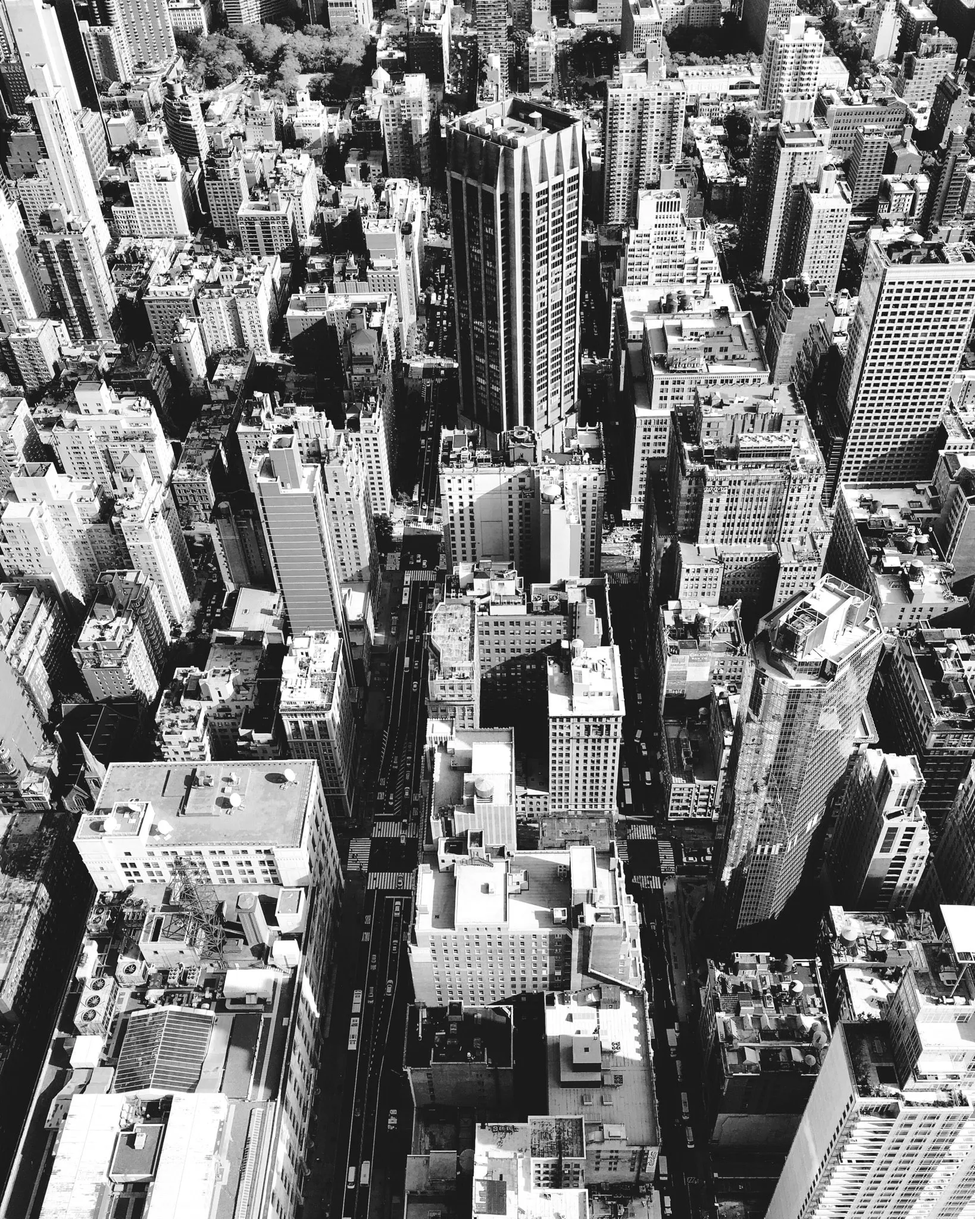
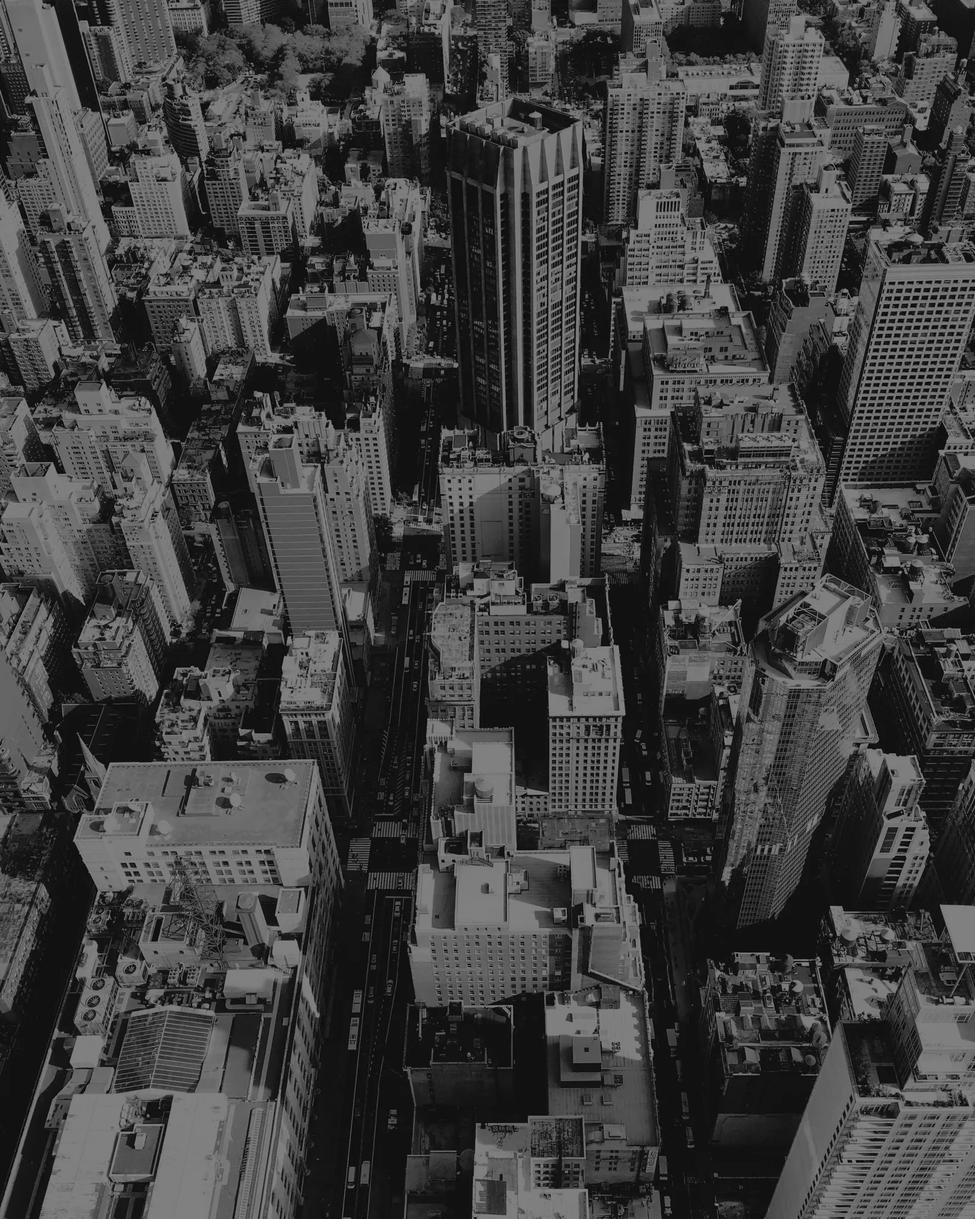
Fix paralllax and convert image to webp

diff --git a/pages/tribe/_tribe_id/index.vue b/pages/tribe/_tribe_id/index.vue
@@ -8,7 +8,6 @@
                            :description="tribe.description" :rockstars="tribeRockstars"/>
     </div>
     <div v-if="tribeArticles" class="hero-image mt-10 relative parallax">
-      <img class="hero-banner" :src="require('assets/image/buildings.webp')" alt="">
       <div class="relative text-center text-white">
         <Title size="2">
           Artikelen
@@ -85,7 +84,7 @@ export default {
 
 .parallax {
   /* The image used */
-  background-image: url("../../../assets/image/Buildings(1).jpg");
+  background-image: url("../../../assets/image/buildings.webp");
 
   /* Set a specific height */
   min-height: 500px;
